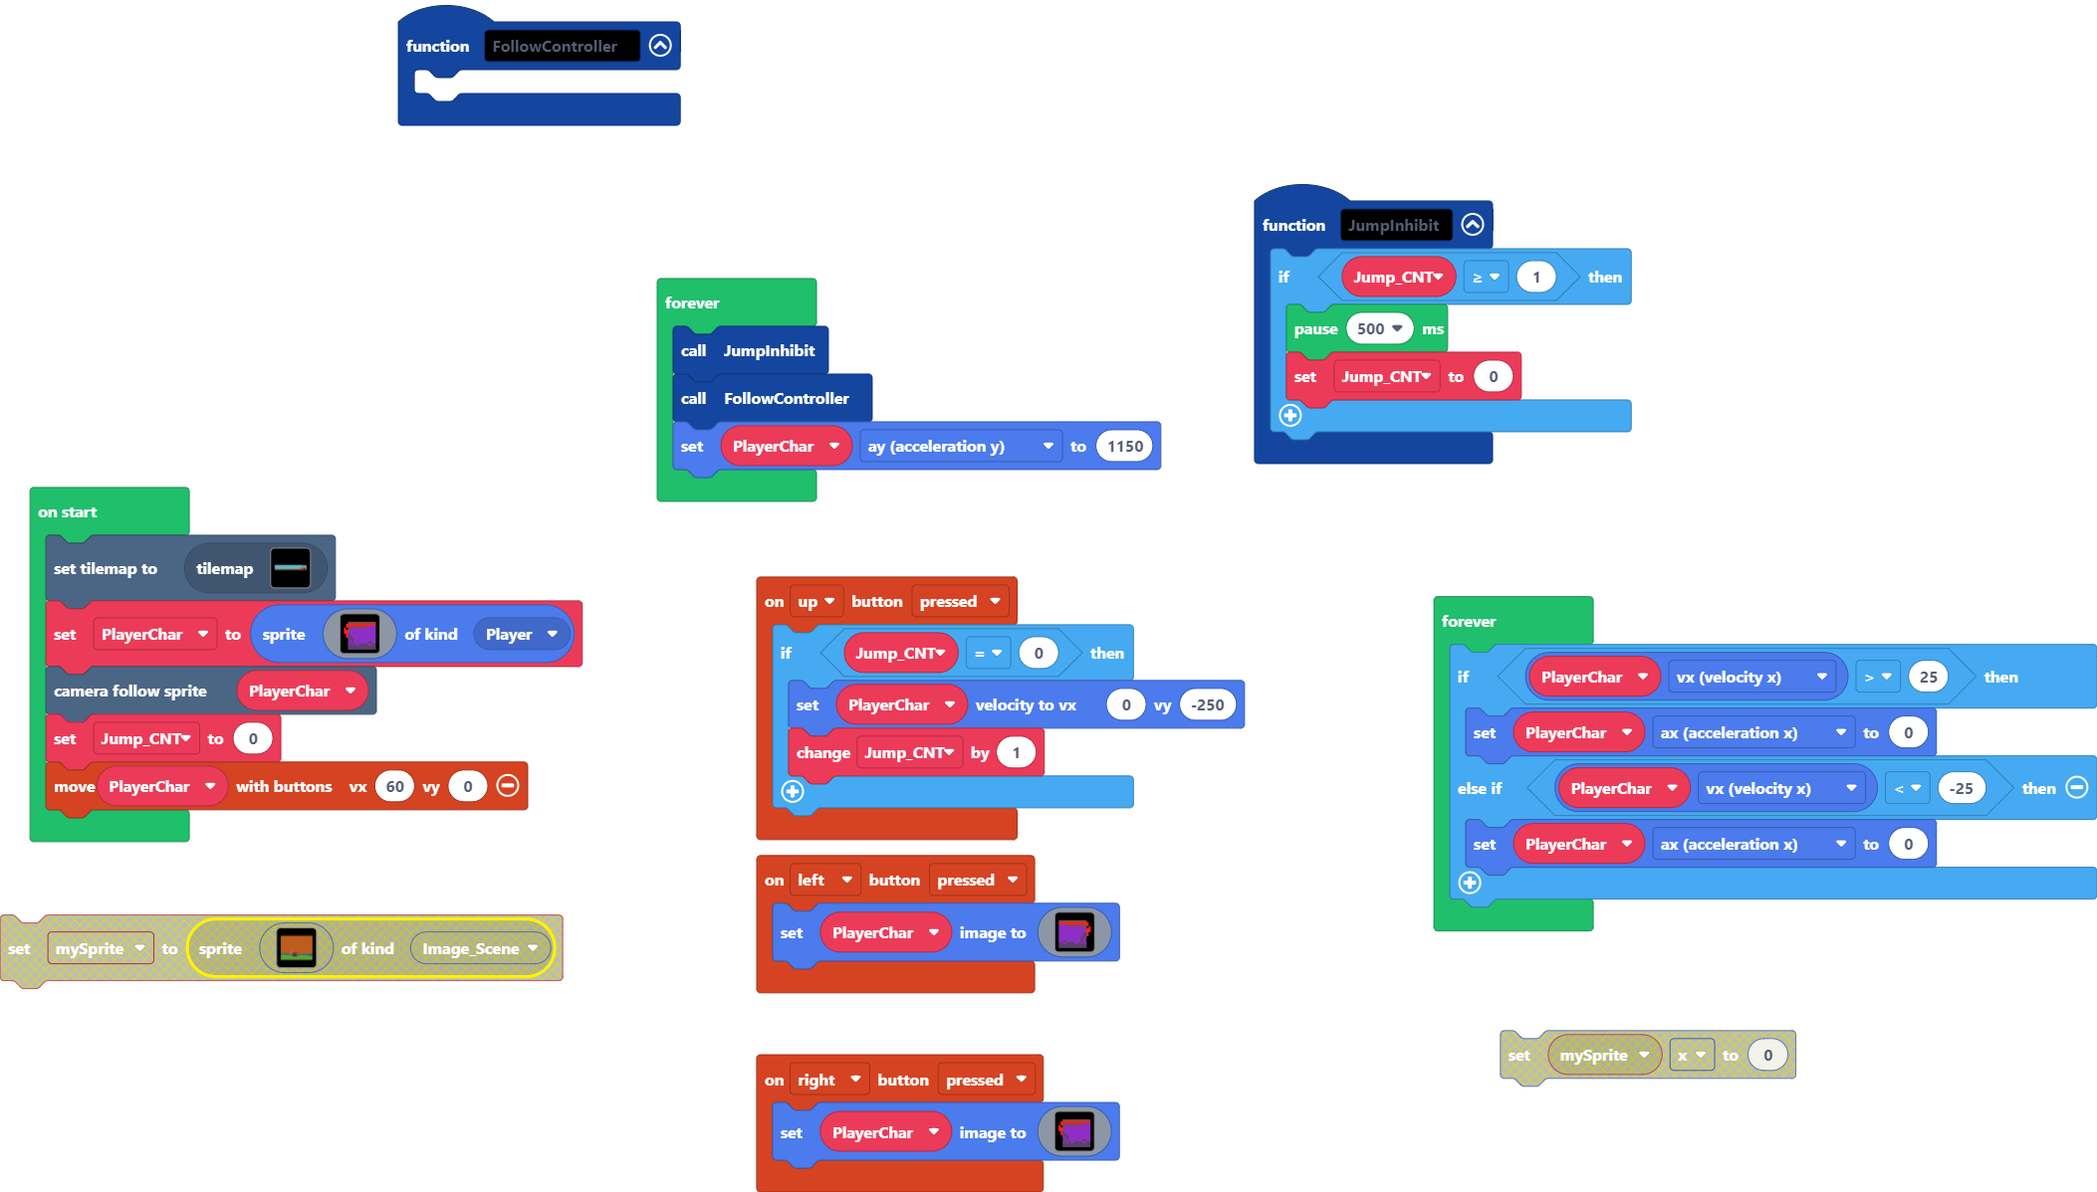
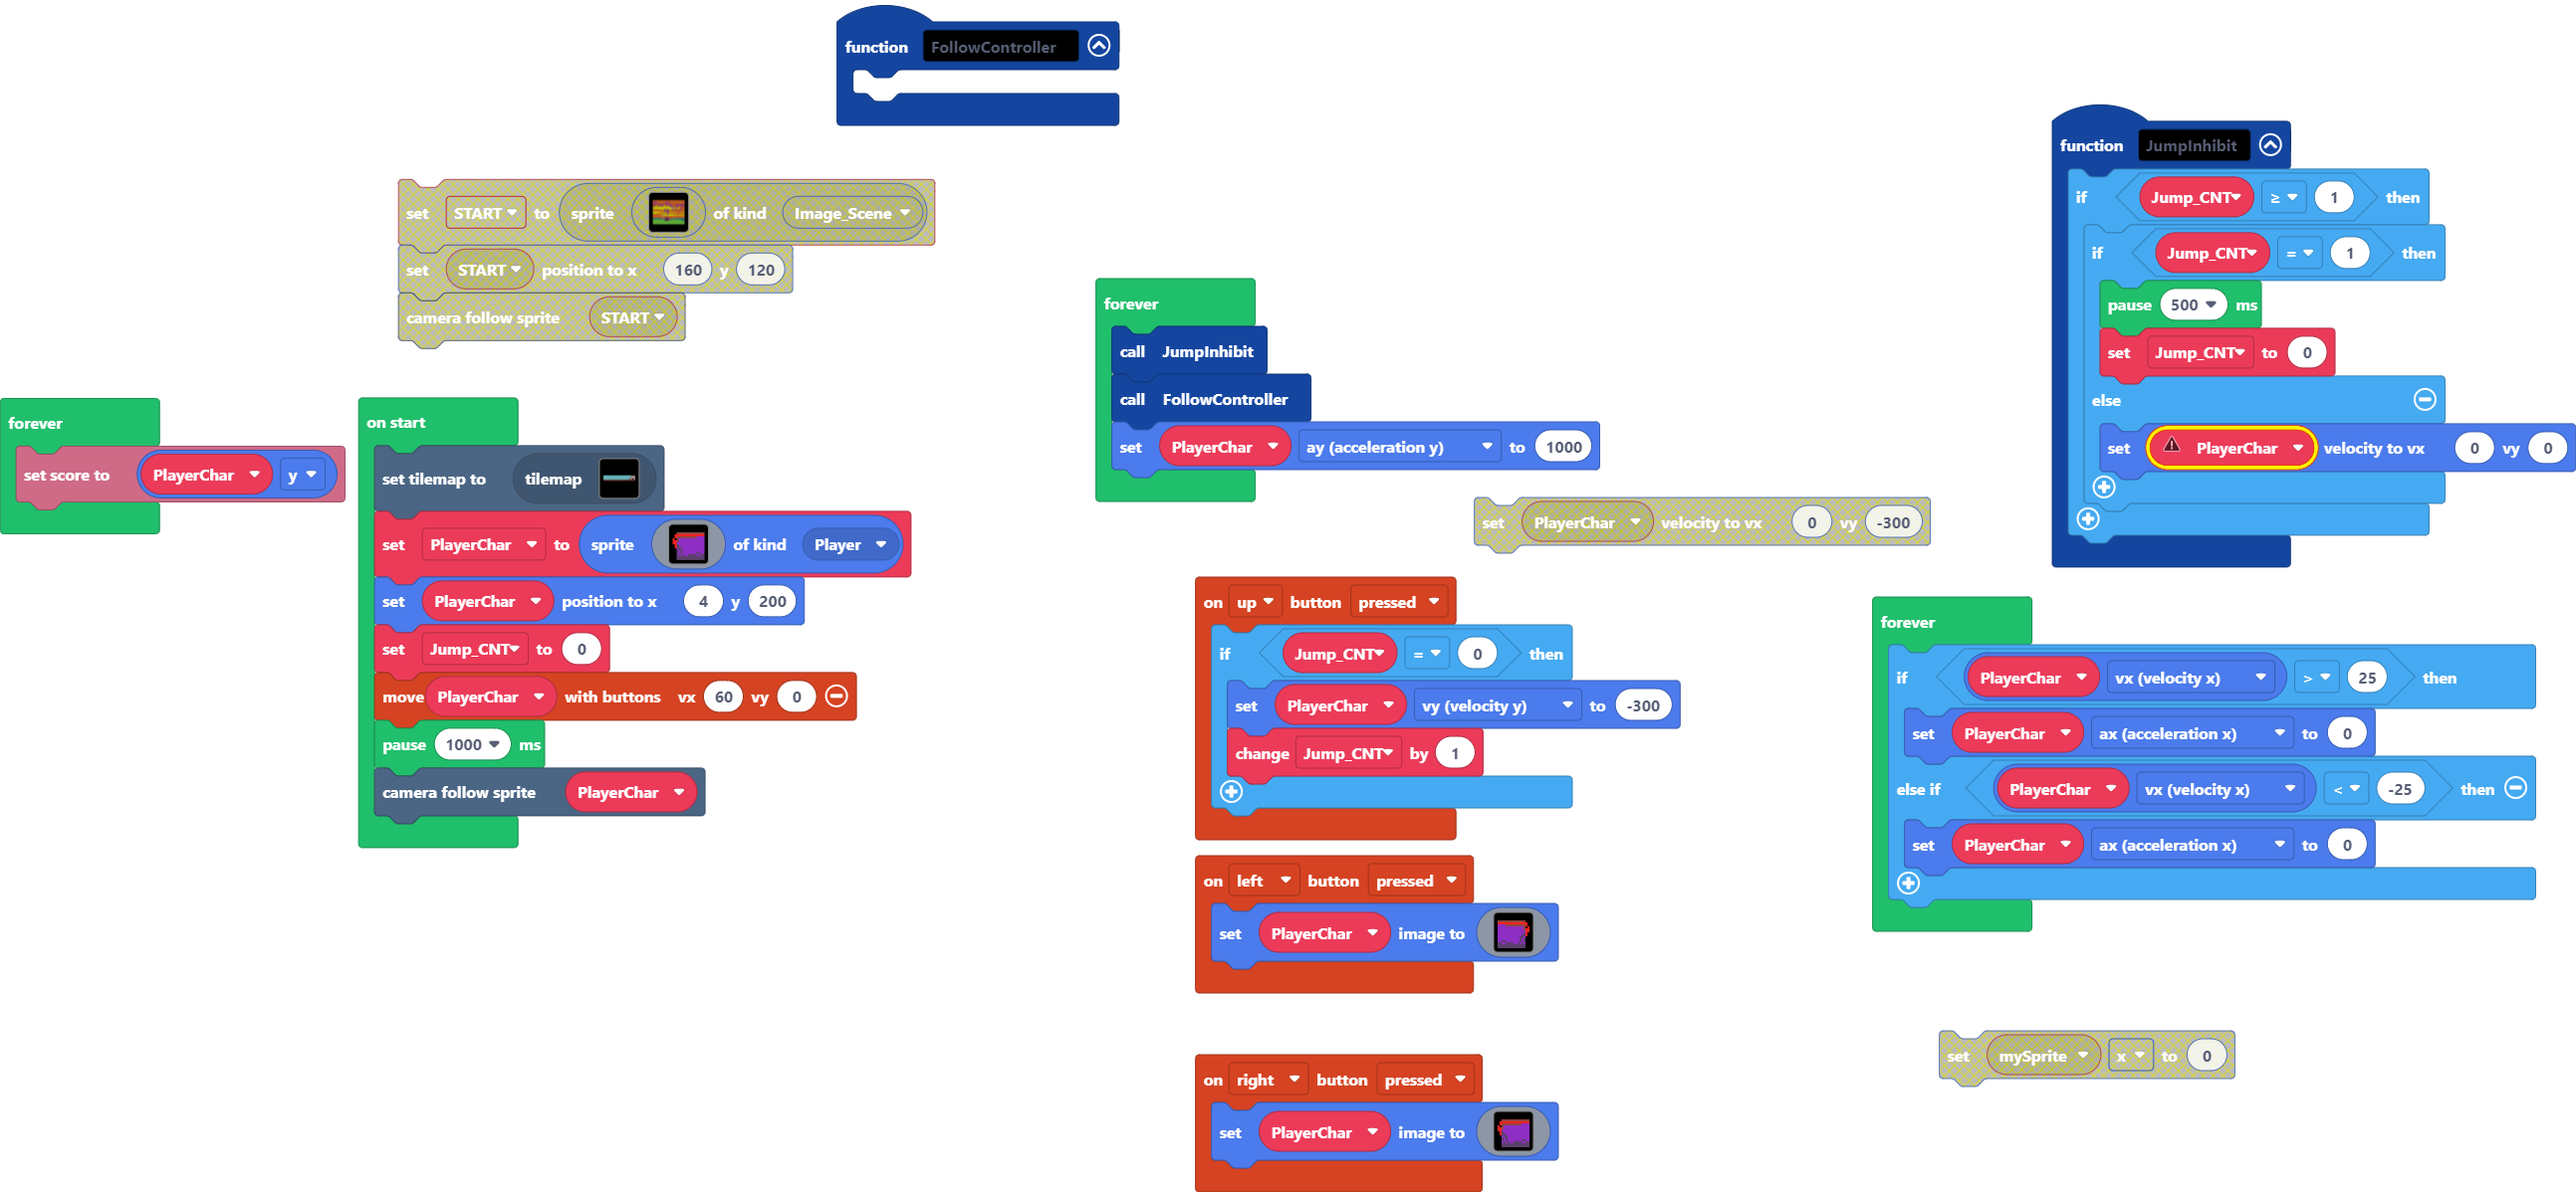
Update main.blocks, main.ts

diff --git a/main.ts b/main.ts
@@ -4,14 +4,18 @@ namespace SpriteKind {
 }
 controller.up.onEvent(ControllerButtonEvent.Pressed, function () {
     if (Jump_CNT == 0) {
-        PlayerChar.setVelocity(0, -250)
+        PlayerChar.vy = -300
         Jump_CNT += 1
     }
 })
 function JumpInhibit () {
     if (Jump_CNT >= 1) {
-        pause(500)
-        Jump_CNT = 0
+        if (Jump_CNT == 1) {
+            pause(500)
+            Jump_CNT = 0
+        } else {
+            PlayerChar.setVelocity(0, 0)
+        }
     }
 }
 controller.left.onEvent(ControllerButtonEvent.Pressed, function () {
@@ -78,13 +82,18 @@ PlayerChar = sprites.create(img`
     . . c c c c c c c c c c c c c c 
     . . c c c c c c c c c c c c c c 
     `, SpriteKind.Player)
-scene.cameraFollowSprite(PlayerChar)
+PlayerChar.setPosition(4, 200)
 Jump_CNT = 0
 controller.moveSprite(PlayerChar, 60, 0)
+pause(1000)
+scene.cameraFollowSprite(PlayerChar)
 forever(function () {
     JumpInhibit()
     FollowController()
-    PlayerChar.ay = 1150
+    PlayerChar.ay = 1000
+})
+forever(function () {
+    info.setScore(PlayerChar.y)
 })
 forever(function () {
     if (PlayerChar.vx > 25) {
